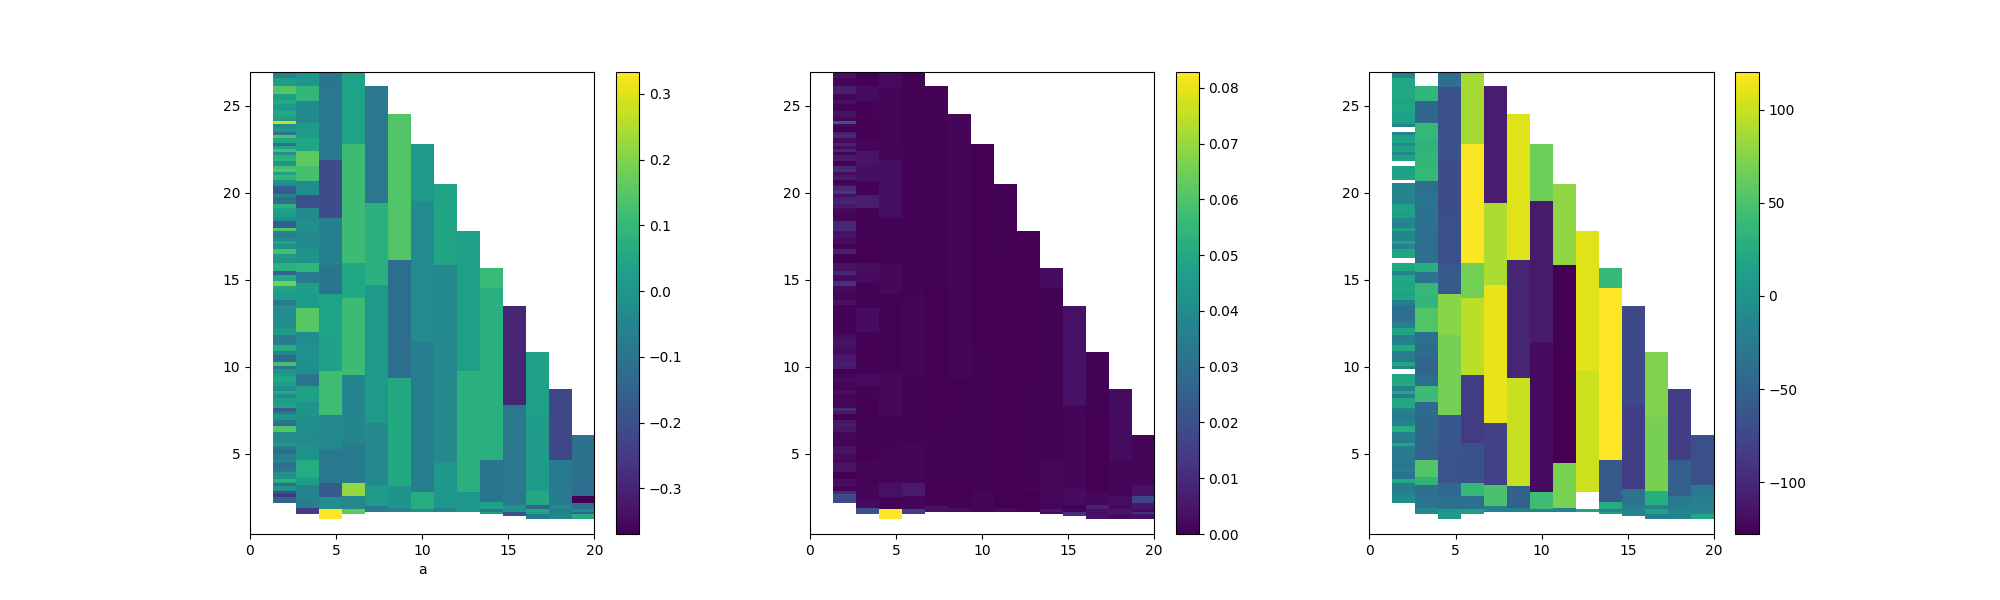
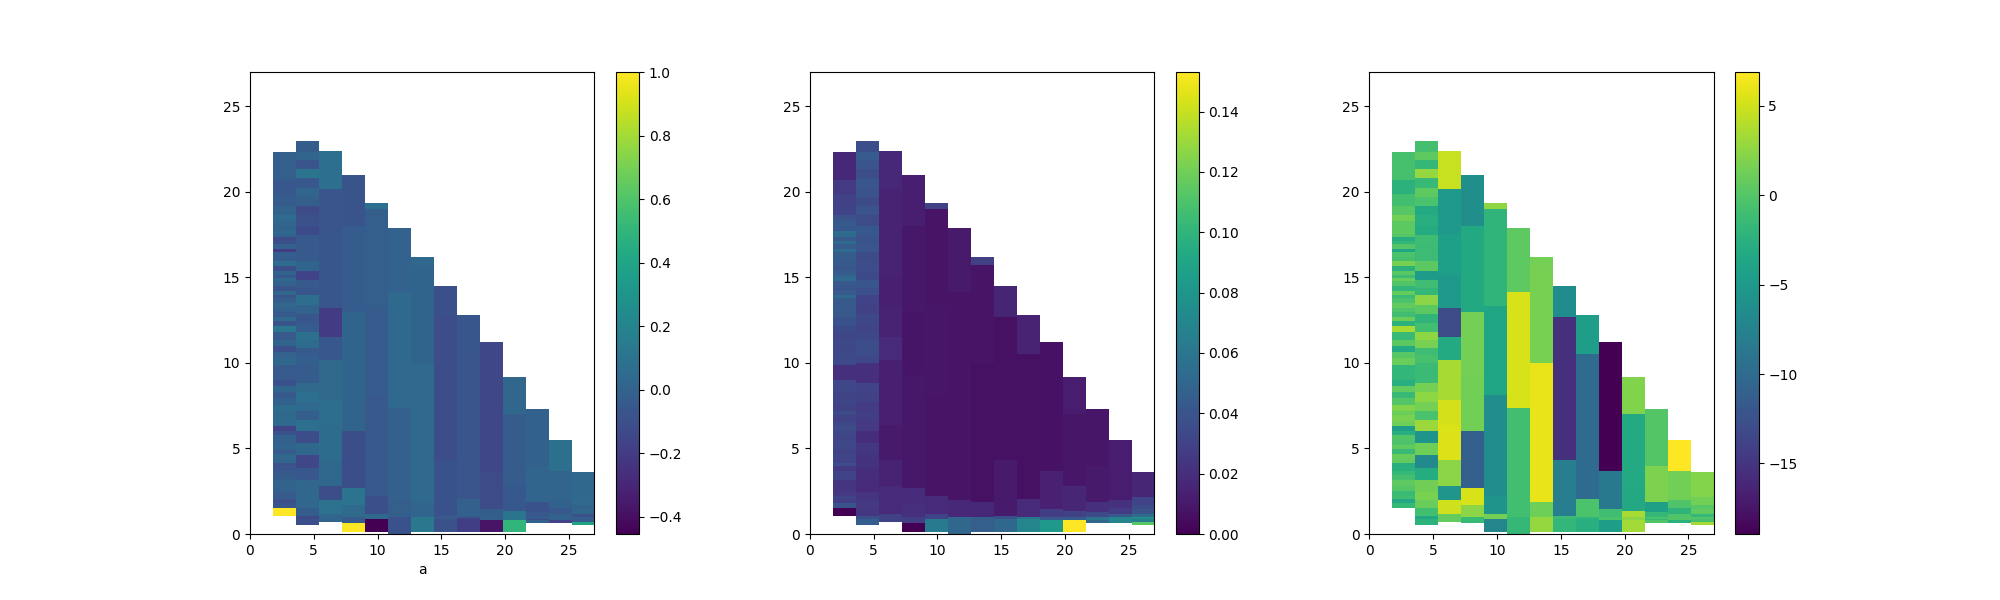
started fixing use_frame

diff --git a/matter_antimatter/utils/histogram.py b/matter_antimatter/utils/histogram.py
@@ -3,7 +3,7 @@ import numpy as np
 
 
 
-def dalitz_plot(resonance_kpi, resonance_pipi, bins=30):
+def dalitz_plot(resonance_kpi, resonance_pipi, bins=30, limits=[0, 27]):
     kpi_squared = resonance_kpi**2
     pipi_squared = resonance_pipi**2
 
@@ -13,7 +13,7 @@ def dalitz_plot(resonance_kpi, resonance_pipi, bins=30):
 
     
 
-    values, x_bin_edges, y_bin_edges, image = plt.hist2d(kpi_squared, pipi_squared, bins=bins, range=[[0, 20], [0, 20]])
+    values, x_bin_edges, y_bin_edges, image = plt.hist2d(kpi_squared, pipi_squared, bins=bins, range=[limits, limits])
     plt.clf()
     #plt.colorbar()
     values = np.array(values).T
@@ -58,13 +58,13 @@ def convert_2d_hist(values, x_bins_edges, y_bins_edges, x_resolution=200, limits
 
 def use_histogram_frame(values, x_bins_edges, y_bins_edges, x_resolution=200, y_resolution=50, limits_x=[0, 20]):
 
-    hist_values, hist_bins_x, hist_bins_y = dalitz_plot(values[:, 1], values[:, 0], bins=[x_resolution, y_resolution])
+    hist_values, hist_bins_x, hist_bins_y = dalitz_plot(values[:, 1], values[:, 0], bins=[x_resolution, y_resolution], limits=limits_x)
     histogram_frame = np.linspace(limits_x[0], limits_x[1], x_resolution, endpoint=True)
     converted_values = [np.full(x_resolution, -1)]
     
     
 
-    print(np.max(hist_values))
+    #print(np.max(hist_values))
 
     for row in range(0, len(y_bins_edges) - 1):
         #plt.plot([x_bins_edges[row][0], x_bins_edges[row][-1]], [y_bins_edges[row + 1], y_bins_edges[row + 1]], color='r', ls='--', lw='0.5')
@@ -81,7 +81,7 @@ def use_histogram_frame(values, x_bins_edges, y_bins_edges, x_resolution=200, y_
                     #plt.plot([x_bins_edges[row][column + 1], x_bins_edges[row][column + 1]], [y_bins_edges[row], y_bins_edges[row + 1]], color='r', ls='-', lw='0.5')
                     break
                     
-                
+            print(column_value)    
             row_values.append(column_value)
         
         for second_column in range(0, len(x_bins_edges[row]) - 1):

diff --git a/matter_antimatter/src/local_asymmetry.py b/matter_antimatter/src/local_asymmetry.py
@@ -10,13 +10,15 @@ def local_asymmetry( Bplus_data = [], Bminus_data = [], x_resolution=200, y_reso
     x_centres_Bplus, y_centres_Bplus, weigths_Bplus = Bplus_data
     x_centres_Bminus, y_centres_Bminus, weigths_Bminus = Bminus_data
 
+    print(weigths_Bplus[10, 20], weigths_Bminus[10, 20])
+
     all_events = np.sum(weigths_Bplus) + np.sum(weigths_Bminus)
 
     
 
     asymmetry = (weigths_Bminus - weigths_Bplus) / (weigths_Bplus + weigths_Bminus)
     asymmetry = np.where(np.isnan(asymmetry), np.full(np.shape(asymmetry), np.nan), asymmetry)
-    #print(np.max(weigths_Bplus))
+    print(asymmetry[10, 20])
 
     sum = (weigths_Bplus + weigths_Bminus)
     difference = (weigths_Bminus - weigths_Bplus)
@@ -37,7 +39,7 @@ def local_asymmetry( Bplus_data = [], Bminus_data = [], x_resolution=200, y_reso
     #sigma_asymmetry = np.sqrt((np.square(asymmetry) + np.square(np.square(asymmetry))) / sum) 
     sigma_asymmetry = np.where(np.isinf(sigma_asymmetry), np.full(np.shape(sigma_asymmetry), np.nan), sigma_asymmetry)
     sigma_asymmetry = np.where(np.isnan(sigma_asymmetry), np.full(np.shape(sigma_asymmetry), np.nan), sigma_asymmetry)
-    print(np.min(sigma_asymmetry))
+    print(sigma_asymmetry[10, 20])
 
     significance = (asymmetry/sigma_asymmetry)
     #significance = np.where(significance > 5 , significance, np.full(np.shape(significance), np.nan)) #cut siginificant only
@@ -70,7 +72,7 @@ def get_Bplus_Bminus(data_Bplus, data_Bminus, x_bins_edges, y_bins_edges,x_resol
     y_centres_Bminus, unc_Bminus = get_bins(y_bins_Bminus, new_values_Bminus)
 
     
-    plt.show()
+    
     fig, ax = plt.subplots(nrows=1, ncols=3, figsize=(20, 6))
     fig.subplots_adjust(wspace=0.3) # increase horizontal space between plots
     #plot_frame(x_bins_edges[1:], y_bins_edges[1:], x_resolution, limits_x, ax[0])

diff --git a/matter_antimatter/src/dalitz_plots.py b/matter_antimatter/src/dalitz_plots.py
@@ -121,7 +121,7 @@ def crop_row(x_values, x_bins_edges, treshold=1):
     return x_min, x_max, iterator, len(x_values) - iterator_inverse
 
 
-def subtract_background(popt=[], signal_limits=[5235, 5333], combinatorial_limits=[5400, 5600], inv_mass_all=[], two_body_all=[], bins=[30, 30], transpose=False):
+def subtract_background(popt=[], signal_limits=[5235, 5333], combinatorial_limits=[5400, 5600], inv_mass_all=[], two_body_all=[], bins=[30, 30], transpose=False, limits=[0, 27]):
     #find ratio of the exponential integrals in signal and combinatorial regions
     signal_x_values = np.linspace(signal_limits[0], signal_limits[1], 1000)
     combinatorial_x_values = np.linspace(combinatorial_limits[0], combinatorial_limits[1], 1000)
@@ -164,13 +164,13 @@ def subtract_background(popt=[], signal_limits=[5235, 5333], combinatorial_limit
 
     fig, ax = plt.subplots(nrows=1, ncols=3, figsize=(20, 6))
     fig.subplots_adjust(wspace=0.3) # increase horizontal space between plots
-    image1 = ax[0].hist2d(np.square(column1_s / 10**3), np.square(column2_s / 10**3), bins=bins)
+    image1 = ax[0].hist2d(np.square(column1_s / 10**3), np.square(column2_s / 10**3), bins=bins, range=[limits, limits])
     ax[0].set_xlabel("$K \pi$")
     ax[0].set_ylabel("$\pi \pi$")
     ax[0].set_title("Dalitz plot of signal peak")
     fig.colorbar(image1[3], cax=None, ax=ax[0])
 
-    image2 = ax[1].hist2d(np.square(column1_c / 10**3), np.square(column2_c / 10**3), bins=bins)
+    image2 = ax[1].hist2d(np.square(column1_c / 10**3), np.square(column2_c / 10**3), bins=bins, range=[limits, limits])
     ax[1].set_xlabel("$K \pi$")
     ax[1].set_ylabel("$\pi \pi$")
     ax[1].set_title("Dalitz plot of combinatorial region")

diff --git a/matter_antimatter/main.py b/matter_antimatter/main.py
@@ -84,6 +84,7 @@ def main():
 
     x_resolution = 300
     y_resolution = 15
+    limits = [0, 27]
 
 
     data1 = np.genfromtxt("data/two_body_resonance_filtered_Bplus.csv", delimiter=',')
@@ -93,7 +94,7 @@ def main():
     data = np.append(data1, data2, axis=0)
     inv_mass = np.append(inv_mass1, inv_mass2)
     popt_exp=[1.69e+6, 5.3e+3, 1.7e+3]
-    dalitz_values, dalitz_x_bins, dalitz_y_bins = subtract_background(popt=popt_exp, inv_mass_all=inv_mass, two_body_all=data, bins=[x_resolution,y_resolution], transpose=True)
+    dalitz_values, dalitz_x_bins, dalitz_y_bins = subtract_background(popt=popt_exp, inv_mass_all=inv_mass, two_body_all=data, bins=[x_resolution,y_resolution], transpose=True, limits=limits)
     values, bins_x, bins_y = variable_bins(dalitz_values, dalitz_x_bins, dalitz_y_bins, resolution_x=x_resolution, resolution_y=y_resolution)
     hist_values, hist_x, hist_y = convert_2d_hist(values[1:], bins_x[1:], bins_y, x_resolution=x_resolution)
     #plt.hist2d(hist_values, bins=[hist_x, hist_y])
@@ -123,7 +124,7 @@ def main():
     
     #plt.show()
 
-    get_Bplus_Bminus(data1, data2, bins_x, bins_y, x_resolution, y_resolution)
+    get_Bplus_Bminus(data1, data2, bins_x, bins_y, x_resolution, y_resolution, limits_x=limits)
 
 
 
